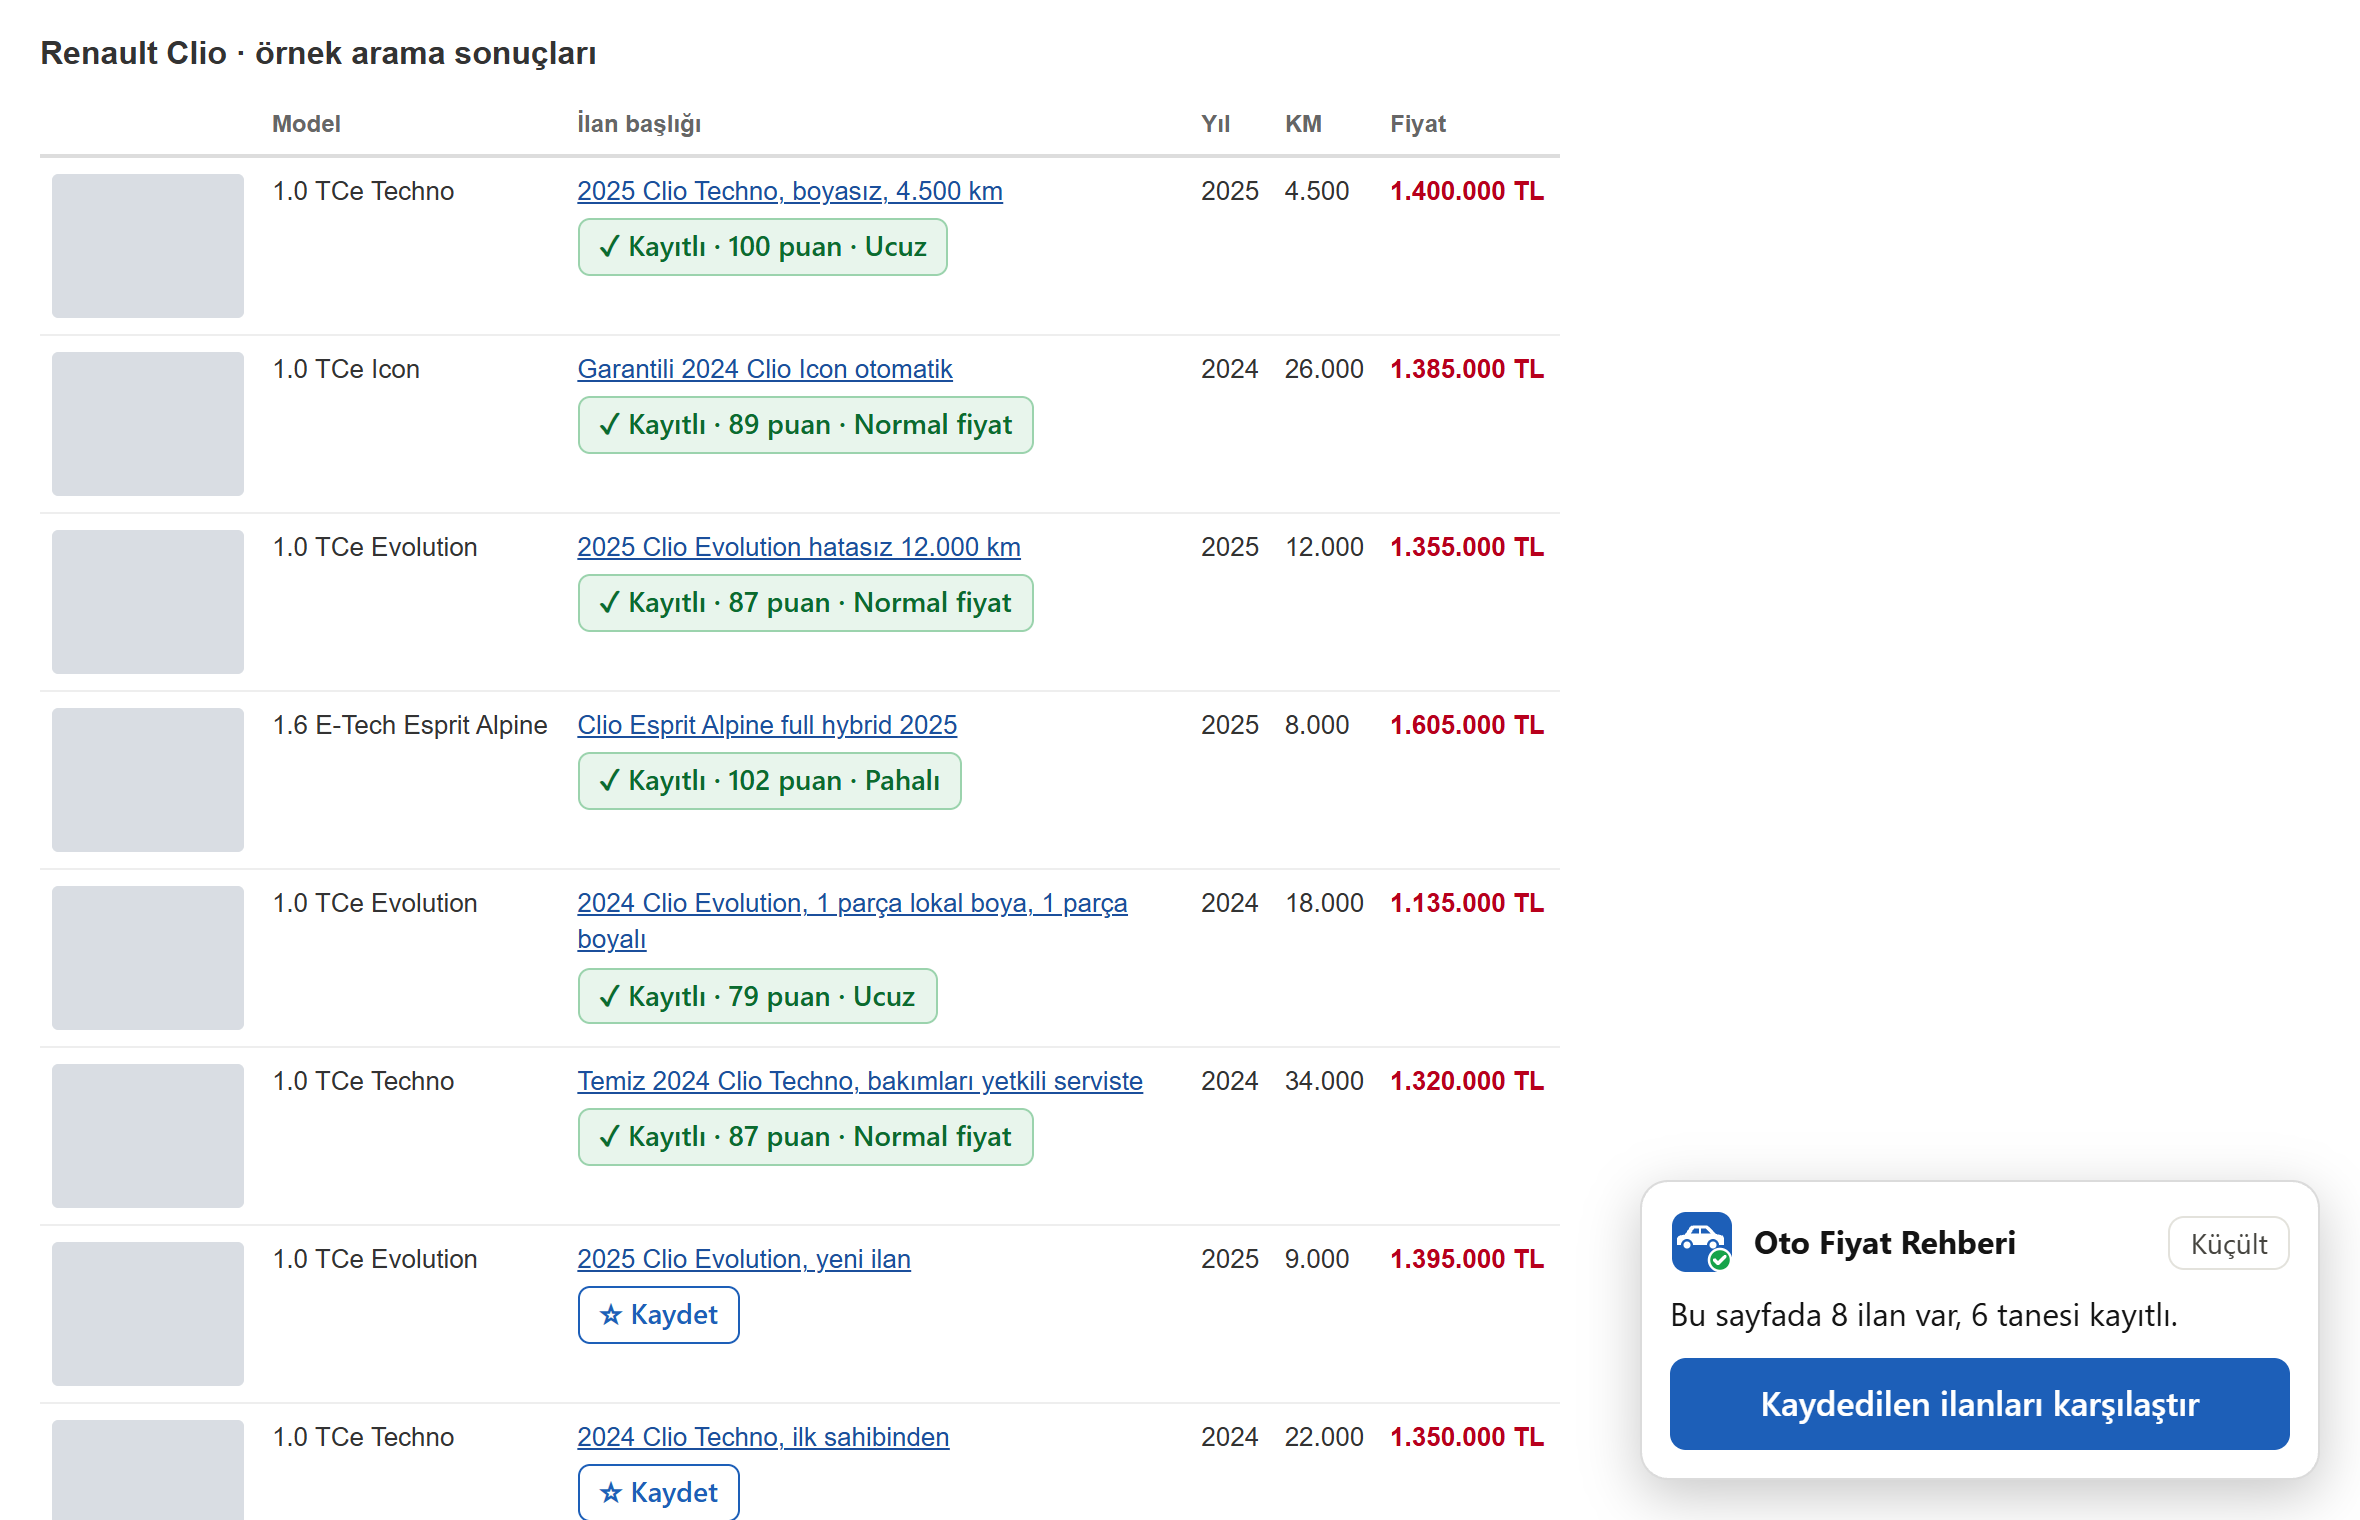
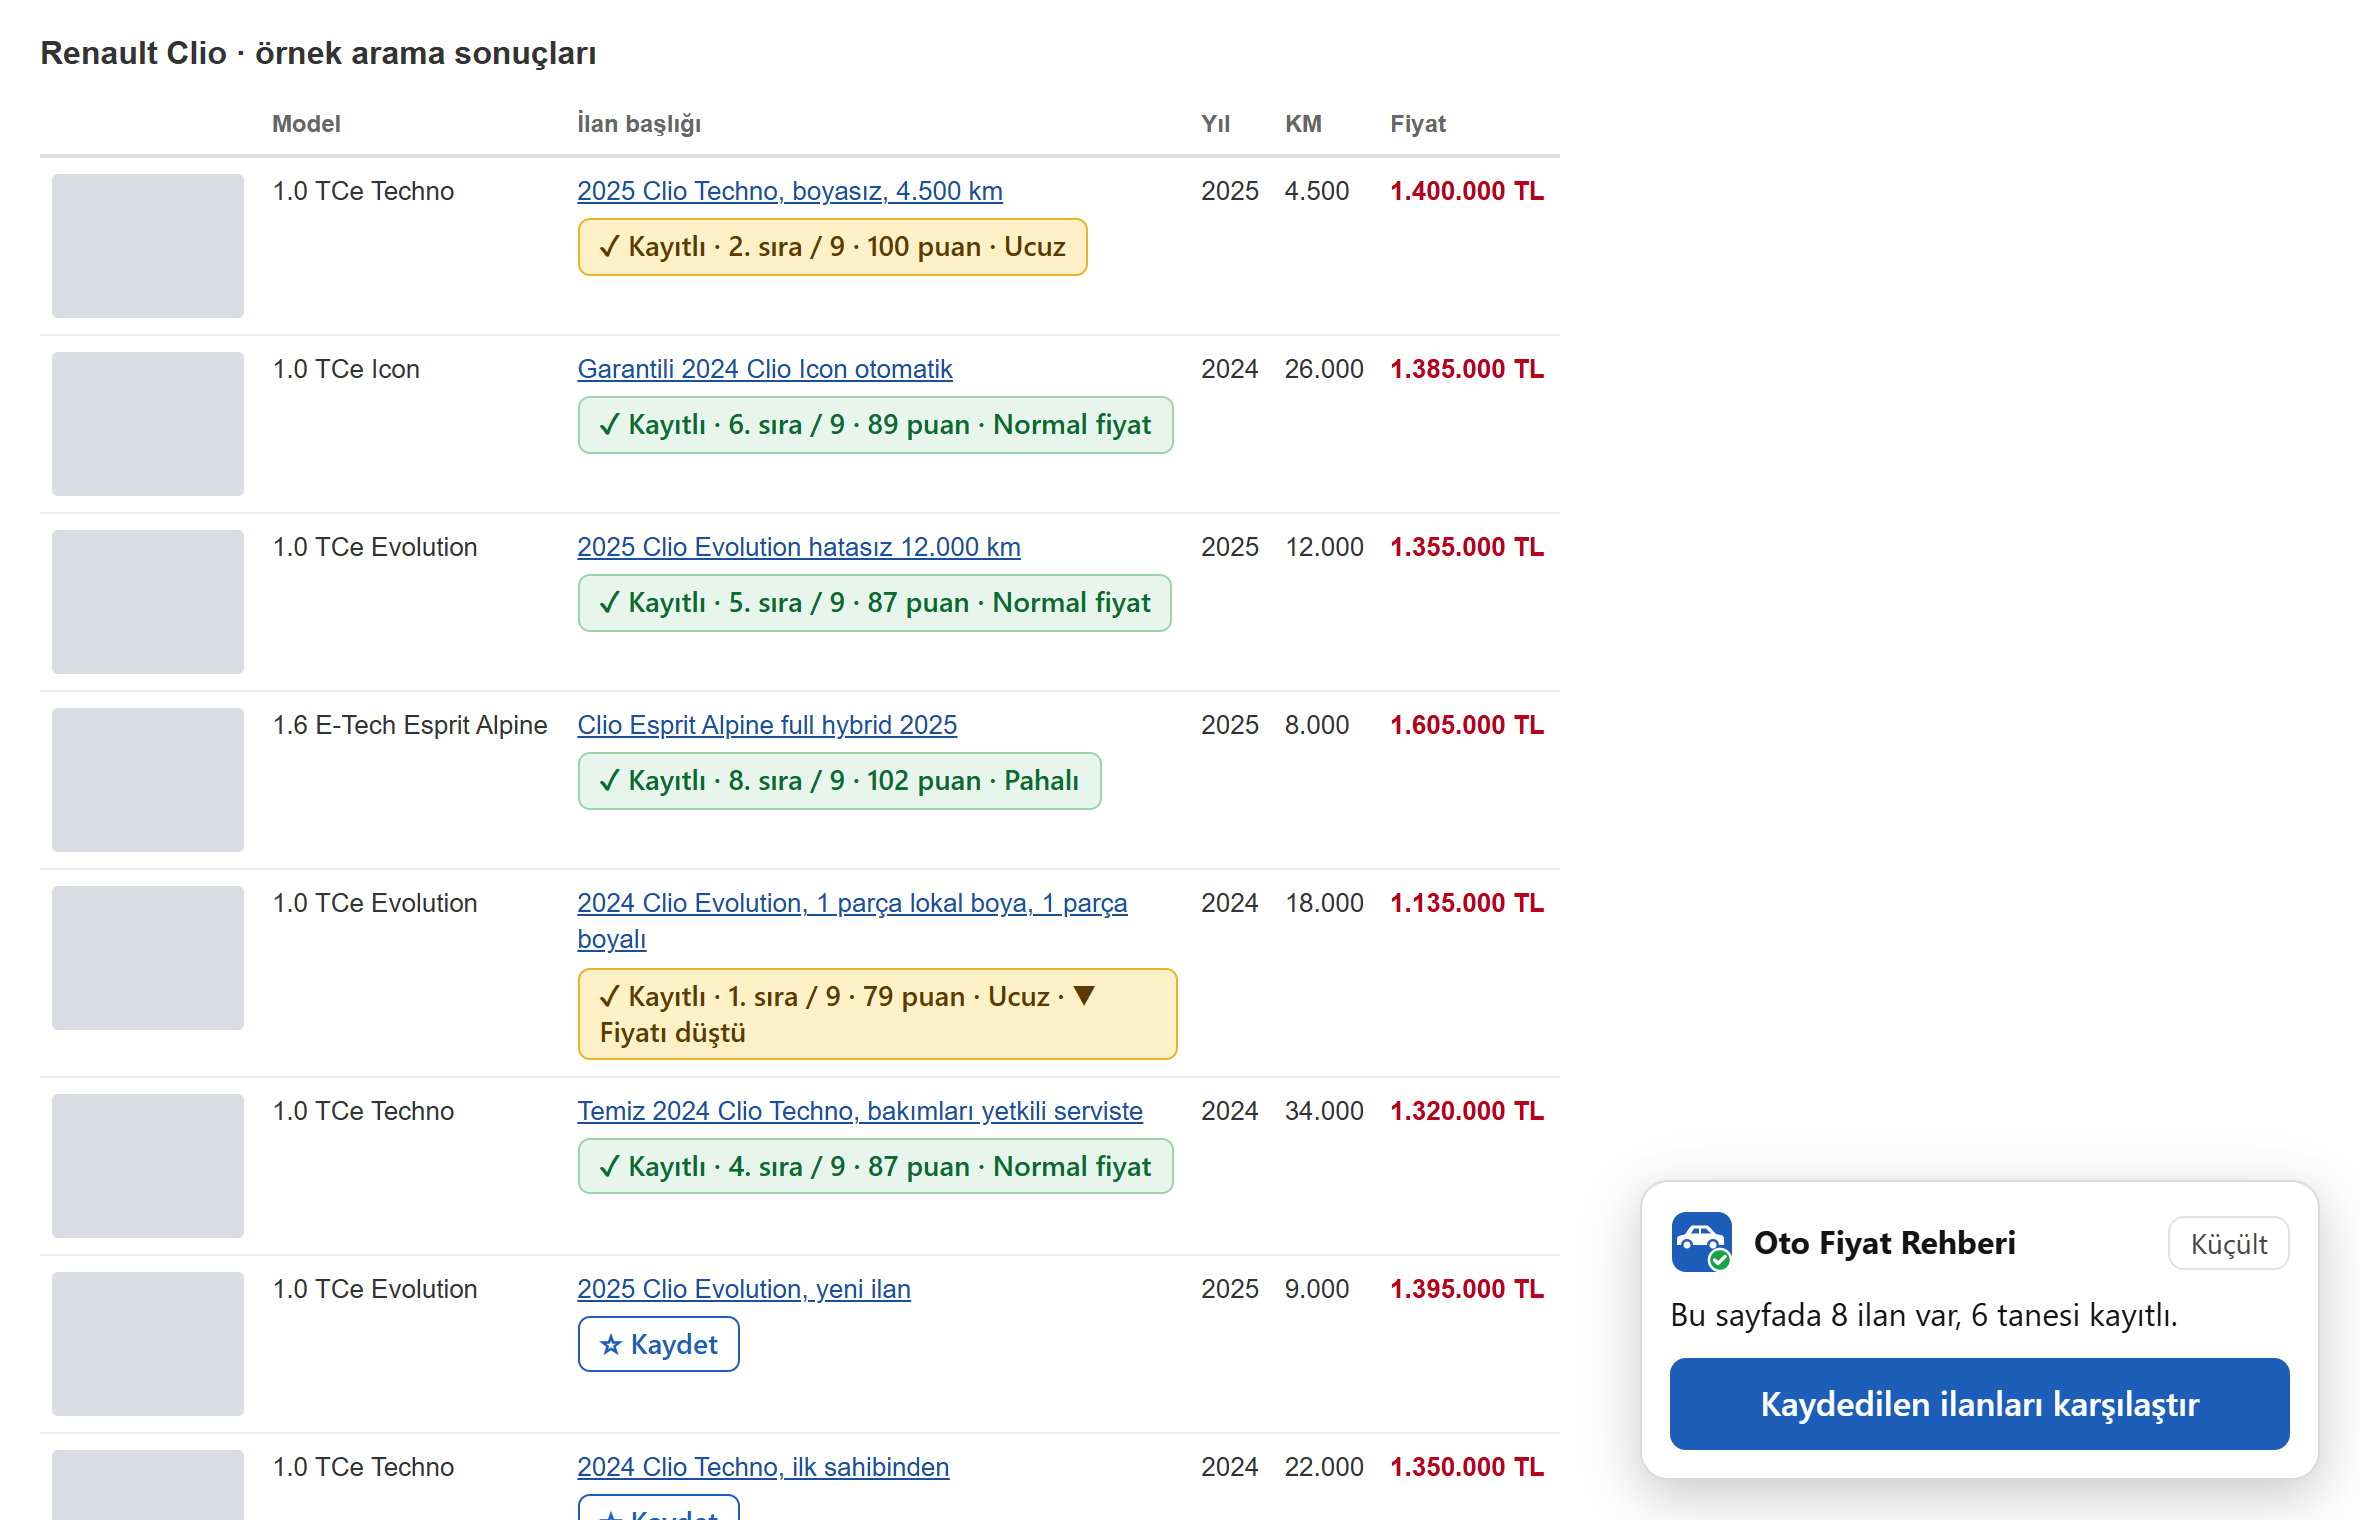
Show the ranking under saved listings on results pages
The label under a saved listing in search results now also says where it
stands in its model's "En iyi fırsatlar" table ("✓ Kayıtlı · 2. sıra / 9 ·
100 puan · Ucuz"), once there is a price line. The top three get the same
yellow highlight as on the panel and the dashboard. README screenshot
updated; version 0.4.1.

diff --git a/src/content/results.js b/src/content/results.js
@@ -24,6 +24,7 @@ var SCC = globalThis.SCC || (globalThis.SCC = {});
     }
     button:hover { background: #edf2f9; }
     .saved { color: #0b6b2e; background: #e8f5ec; border-color: #9bd3ad; }
+    .saved.top { color: #5c3b00; background: #fff1c7; border-color: #e9b42a; }
     .busy { color: #45443f; background: #f4f4f1; border-color: #d6d4cc; cursor: progress; }
     .error { color: #b42318; background: #fdeeec; border-color: #f1a9a0; }
   `;
@@ -106,7 +107,7 @@ var SCC = globalThis.SCC || (globalThis.SCC = {});
     return added;
   }
 
-  function paintButtons(rows) {
+  function paintButtons(rows, ranks) {
     for (const host of document.querySelectorAll('[data-scc-save]')) {
       const id = host.dataset.sccSave;
       const button = host.shadowRoot.querySelector('button');
@@ -118,7 +119,10 @@ var SCC = globalThis.SCC || (globalThis.SCC = {});
       else if (row) {
         const verdict = row.eligible ? VERDICT[row.verdict] : 'Uygun değil';
         const drop = SCC.priceChange(row.listing)?.diff < 0 ? ' · ▼ Fiyatı düştü' : '';
-        look = ['saved', `✓ Kayıtlı · ${score(row.score)} puan${verdict ? ` · ${verdict}` : ''}${drop}`, 'Bilgileri yenilemek için tıklayın'];
+        const [place, of] = ranks.get(id) || [];
+        const rank = place ? ` · ${place}. sıra / ${of}` : '';
+        // The top three stand out, as on the panel and the dashboard.
+        look = [place <= 3 ? 'saved top' : 'saved', `✓ Kayıtlı${rank} · ${score(row.score)} puan${verdict ? ` · ${verdict}` : ''}${drop}`, 'Bilgileri yenilemek için tıklayın'];
       }
       button.className = look[0];
       button.textContent = look[1];
@@ -173,8 +177,11 @@ var SCC = globalThis.SCC || (globalThis.SCC = {});
   async function paint() {
     if (SCC.extensionGone()) return; // storage is out of reach; buttons show the reload note
     await SCC.storage.loadSettings();
-    const rows = new Map(SCC.analyze(await SCC.storage.list()).flatMap((g) => g.rows.map((r) => [r.listing.id, r])));
-    paintButtons(rows);
+    const groups = SCC.analyze(await SCC.storage.list());
+    const rows = new Map(groups.flatMap((g) => g.rows.map((r) => [r.listing.id, r])));
+    // id -> [place, out of] in its model's "En iyi fırsatlar" table, once there is a price line.
+    const ranks = new Map(groups.filter((g) => g.fit).flatMap((g) => g.eligible.map((r, i) => [r.listing.id, [i + 1, g.eligible.length]])));
+    paintButtons(rows, ranks);
     // Not on the home page, whose showcase also links to cars.
     if (links.size && location.pathname !== '/') paintBox(rows);
   }
